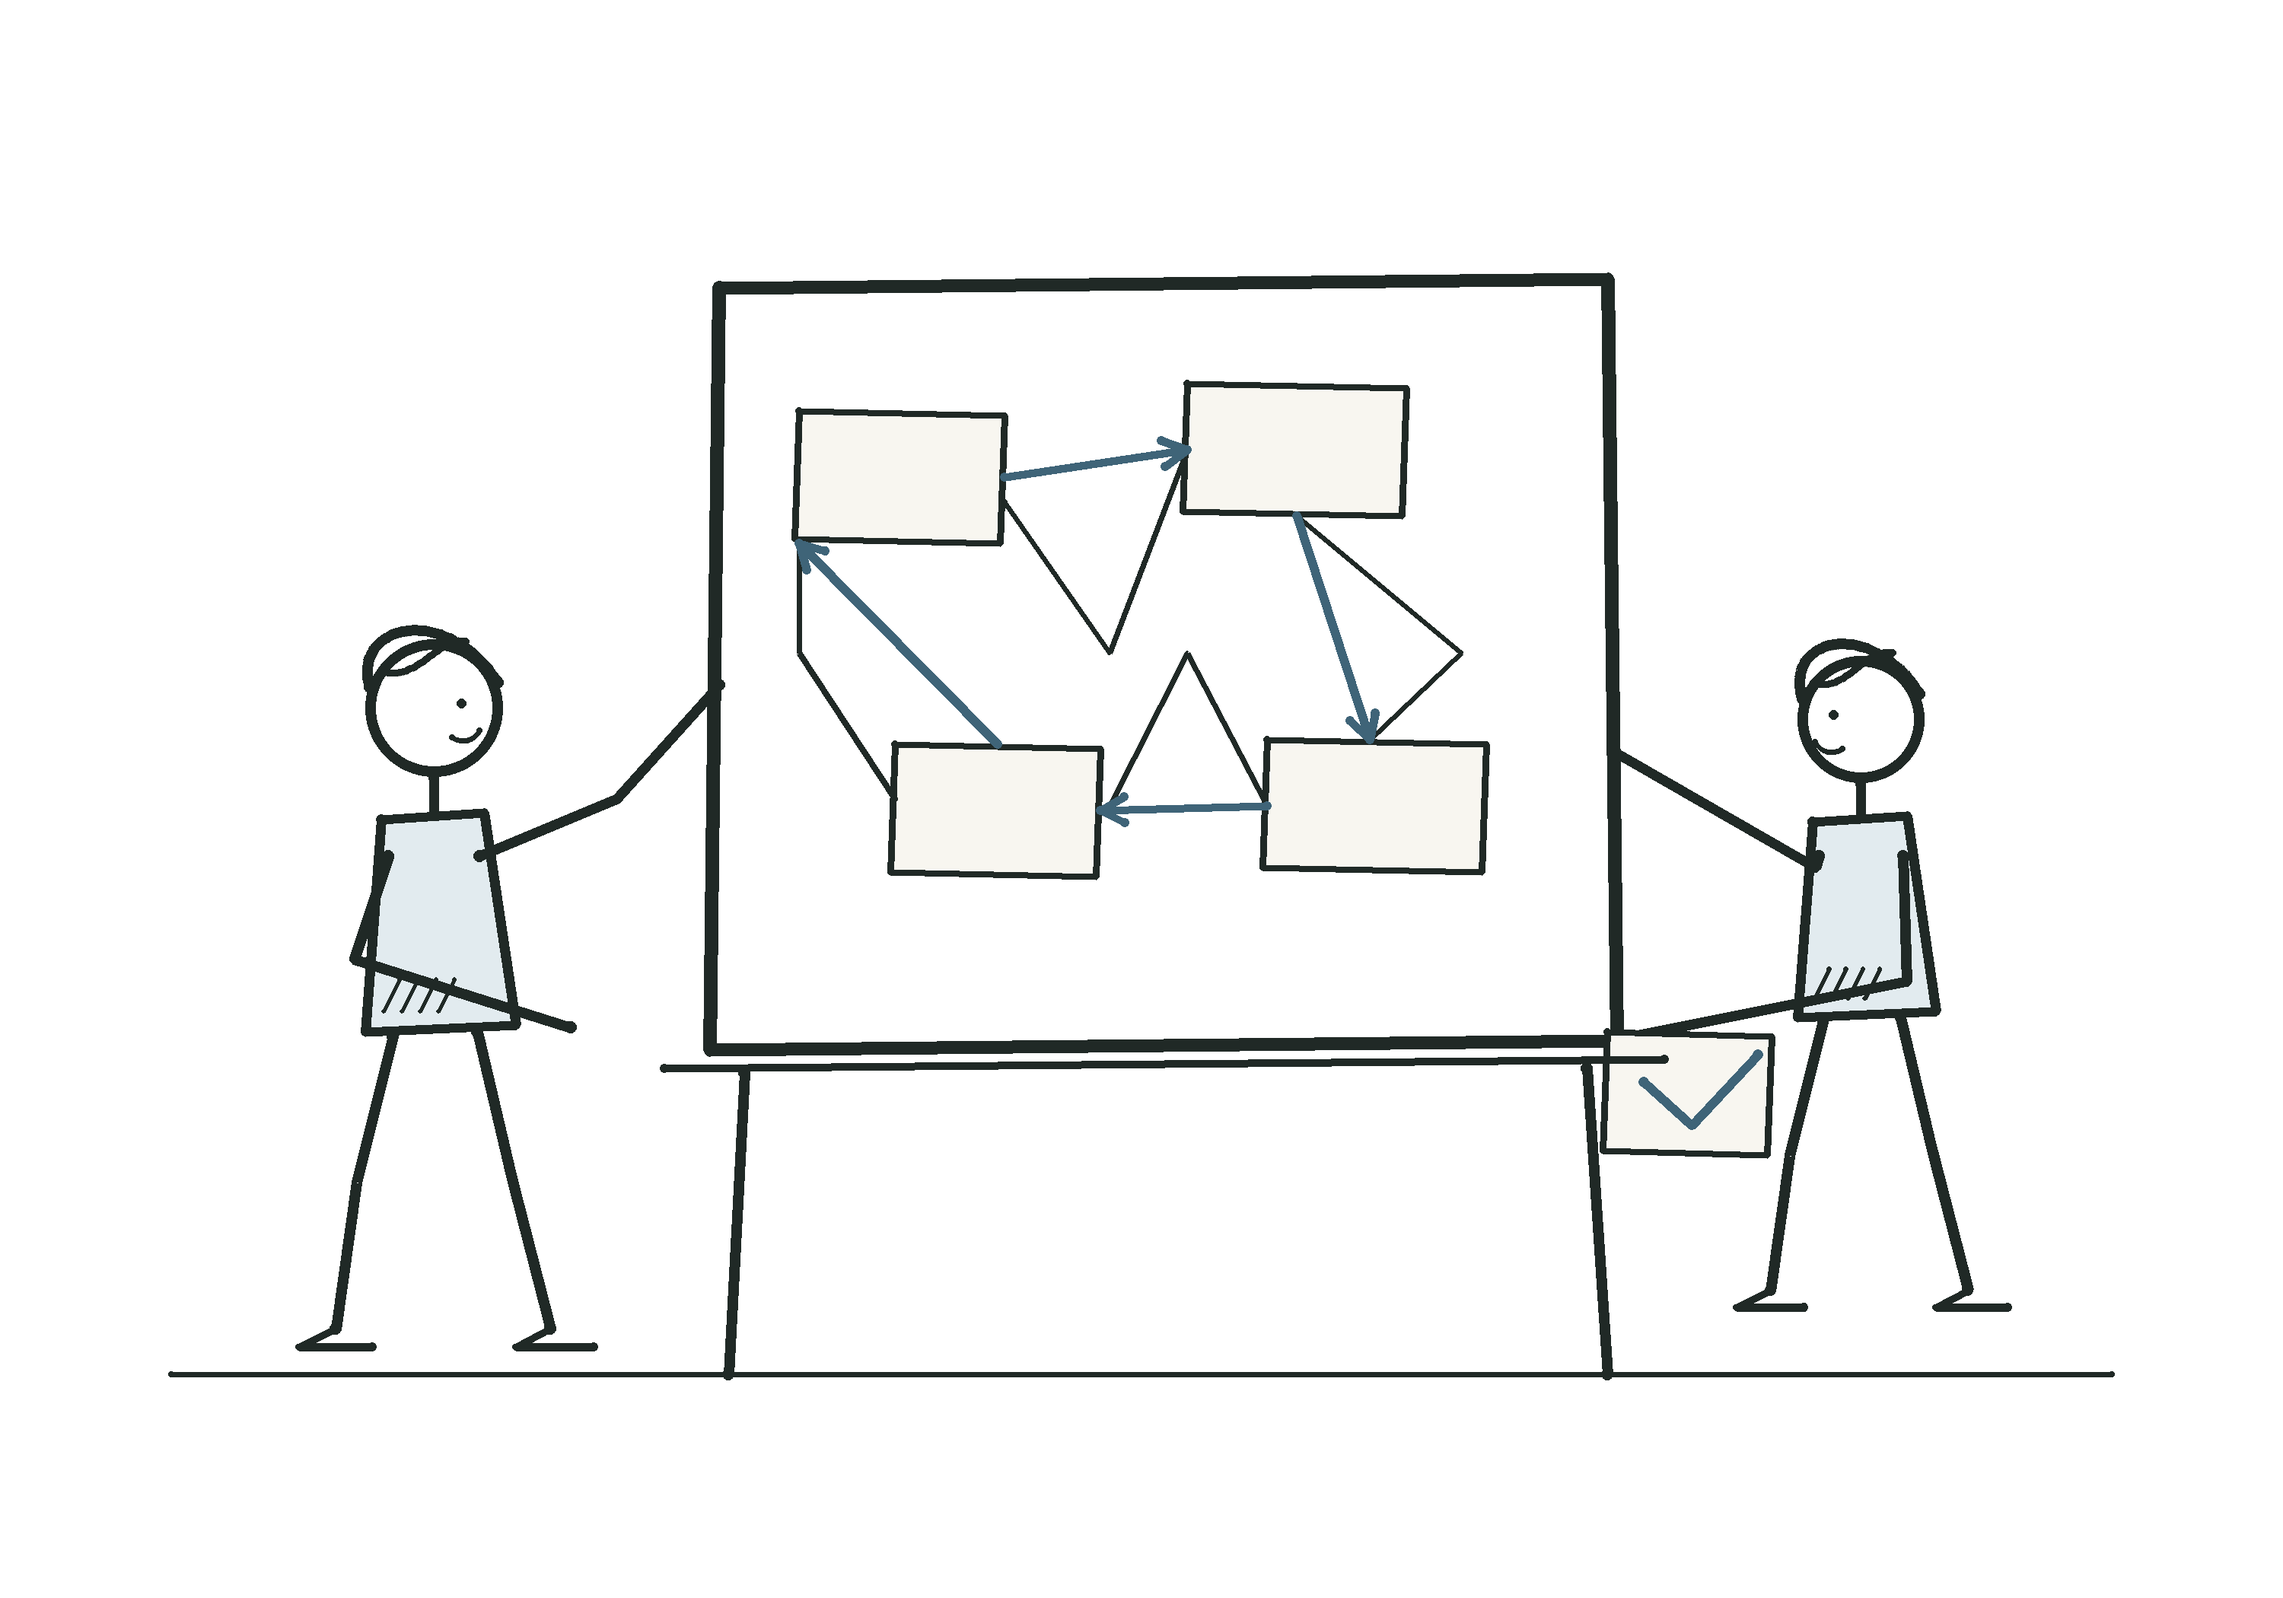
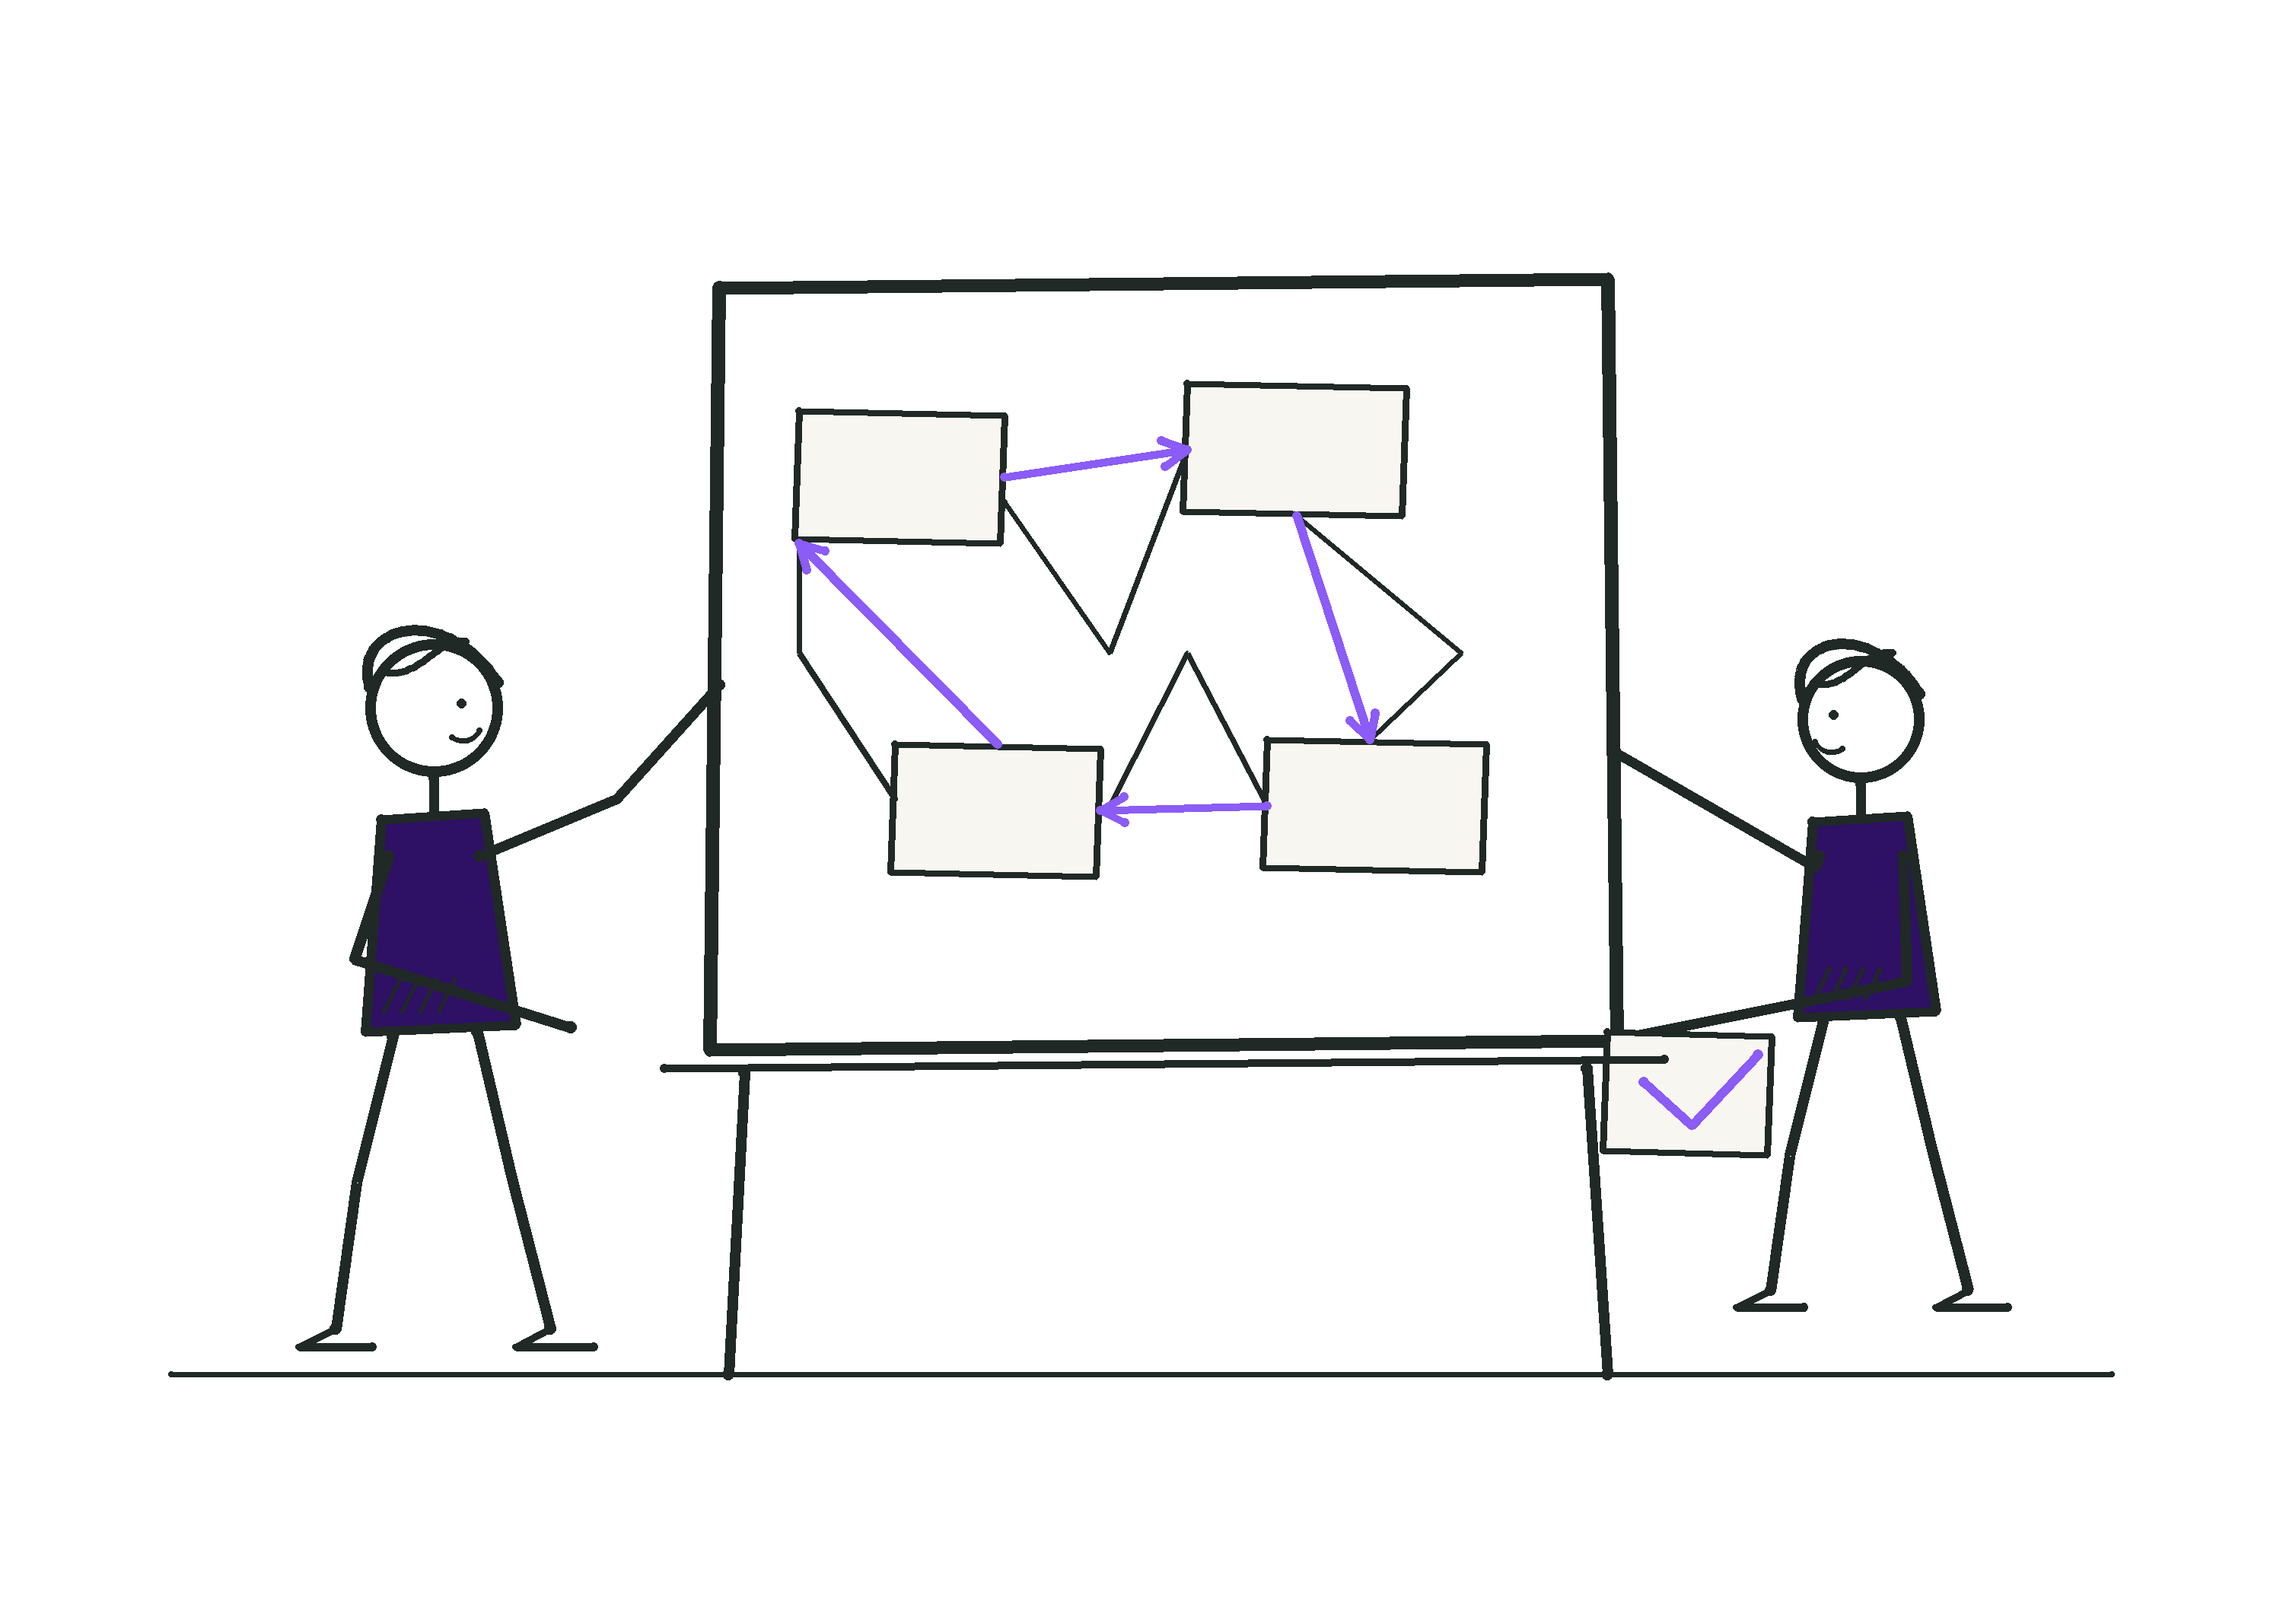
Regenerate cover with track palette

diff --git a/chatbot.html b/chatbot.html
@@ -1,0 +1,5 @@
+<script
+  data-embed-id="407a2886-a5cd-424d-9aba-5ad7f00f2ebe"
+  data-base-api-url="https://chat.eduserver.au/api/embed"
+  src="https://chat.eduserver.au/embed/anythingllm-chat-widget.min.js">
+</script>
